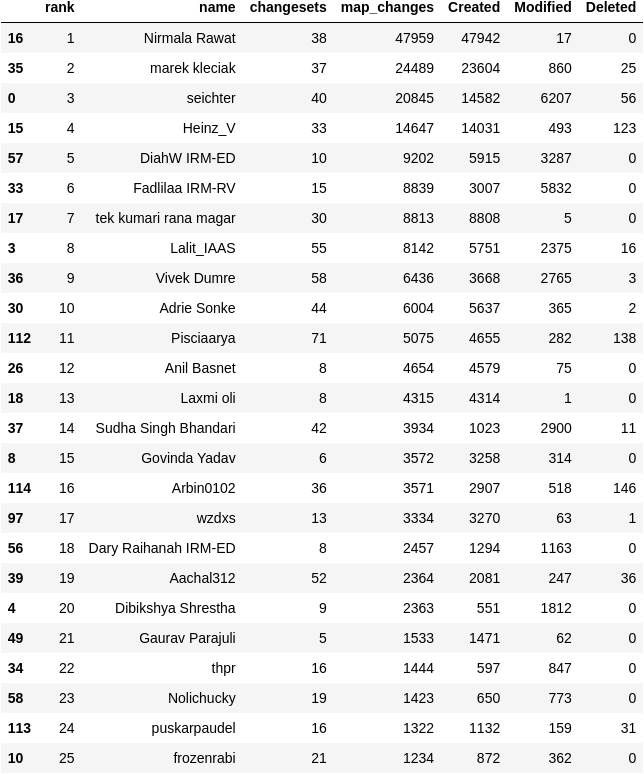
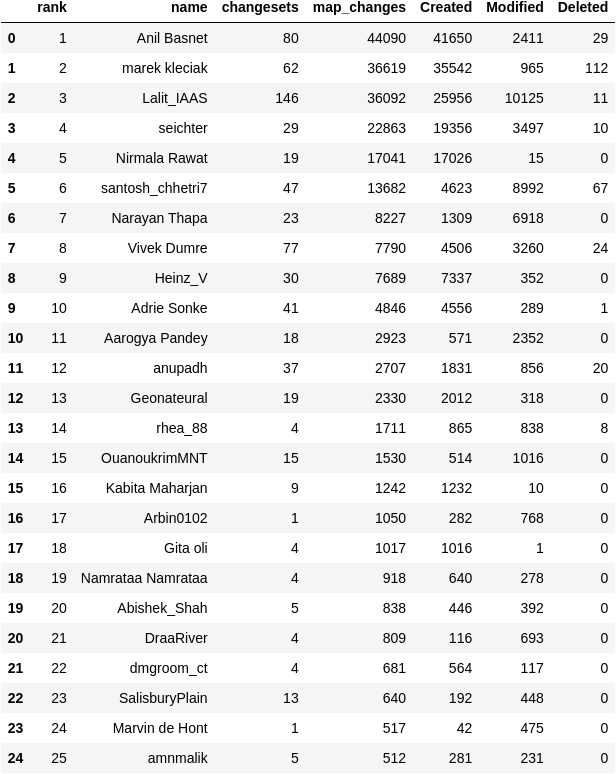
Updated Weekly Nepal Stats

diff --git a/stats/Nepal/Weekly/README.md b/stats/Nepal/Weekly/README.md
@@ -1,12 +1,49 @@
-### Last Update :
+### Last Update : Stats from 2023-02-19 00:00:00+00:00 to 2023-02-26 00:00:00+00:00 (UTC Timezone)
 
-### Stats From 2023-02-12 00:00:00+00:00 to 2023-02-19 00:00:00+00:00
+#### 96 Users made 932 changesets with 224.2 thousand map changes.
+#### 175.7 thousand OSM Elements were Created, 48.2 thousand Modified & 320 Deleted.
 
-142 Users made 1214 changesets with 219.8 thousand map changes.
-- 179.6 thousand OSM Elements were Created,39.4 thousand Modified & 847 Deleted . Including 20.8 thousand buildings & 727 highways created. Nirmala Rawat tops table with 48.0 thousand changes
-- Top three trending hashtags for those stats are #osmnepal : 29, #digitalnepal : 23 & #hotosm-project-14284 : 18
-- 
-![Alt text](./charts/osm_changes.png) 
-![Alt text](./charts/users_per_hashtag.png) 
-![Alt text](./charts/users_per_country.png) 
-![Alt text](./charts/tags.png) 
+Top 5 Users are : 
+- Anil Basnet : 44.1 thousand Map Changes
+- marek kleciak : 36.6 thousand Map Changes
+- Lalit_IAAS : 36.1 thousand Map Changes
+- seichter : 22.9 thousand Map Changes
+- Nirmala Rawat : 17.0 thousand Map Changes
+
+Summary of Supplied Tags
+- poi = Created: 258, Modified : 185
+- building = Created: 14.2 thousand, Modified : 583
+- highway = Created: 708, Modified : 1.4 thousand
+- waterway = Created: 51, Modified : 118
+- amenity = Created: 23, Modified : 87
+
+
+Top 5 Created tags are :
+- building: 14.2 thousand
+- highway: 708
+- natural: 511
+- landuse: 329
+- name: 206
+
+
+Top 5 Modified tags are :
+- highway: 1.4 thousand
+- building: 583
+- surface: 325
+- name: 312
+- natural: 208
+
+
+Top 5 trending hashtags are:
+- #dmd : 14 users
+- #OSMNepal : 12 users
+- #hotosm-project-14310 : 11 users
+- #EPFL : 11 users
+
+
+Top 5 trending Countries where user contributed are:
+- Nepal : 88 users
+- India : 2 users
+- Sudan : 1 users
+- China : 1 users
+
